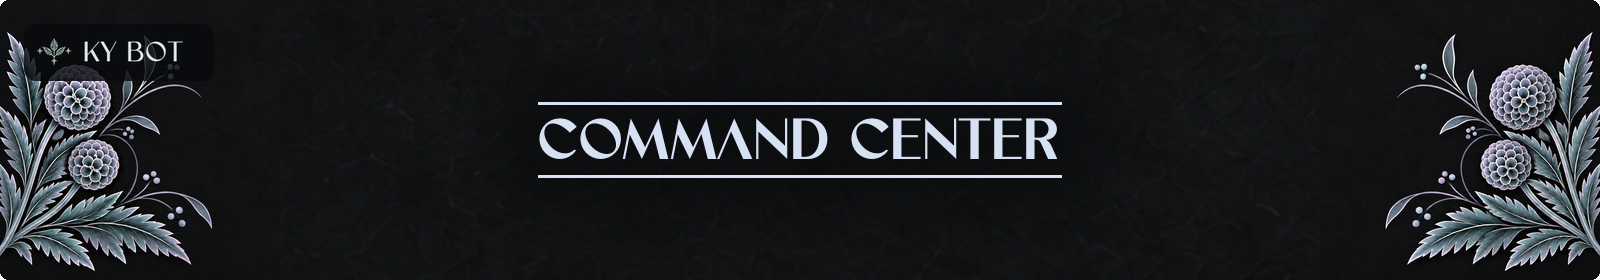
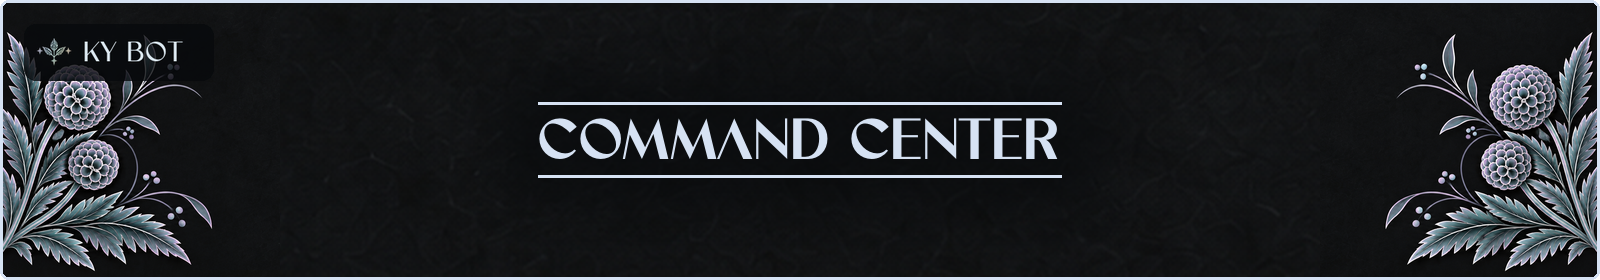
Updated headers and footers

Changed region(s): [[0.0, 0.9714, 1.0, 1.0], [0.0, 0.0, 1.0, 0.0286]]

diff --git a/tools/build_command_center_header.py b/tools/build_command_center_header.py
@@ -29,11 +29,11 @@ def build_header(*, framed: bool = False) -> Image.Image:
 
 
 def main() -> None:
-    header = build_header()
+    header = build_header(framed=True)
     save_artwork(header, ROOT / "src/ky_bot/assets/header/ky_header_command_center.png")
     footer = floral_background("silver_neon", (2176, 210))
-    footer.alpha_composite(centered_overlay("silver_neon", footer.size))
-    save_artwork(footer, ROOT / "src/ky_bot/assets/footer/ky_footer_silver_neon_compact.png")
+    footer.alpha_composite(centered_overlay("silver_neon", footer.size, framed=True))
+    save_artwork(footer, ROOT / "src/ky_bot/assets/footer/ky_footer_command_center.png")
     mask = text_mask("SERVER SETTINGS", role="display", size=44, min_size=44, max_width=1500)
     lettering = Image.new("RGBA", mask.size, "#D6E2F3")
     lettering.putalpha(mask)

diff --git a/src/ky_bot/cogs/settings.py b/src/ky_bot/cogs/settings.py
@@ -88,7 +88,7 @@ class ServerSettings(commands.Cog):
                 ),
                 discord.File(
                     files("ky_bot")
-                    .joinpath("assets", "footer", "ky_footer_silver_neon_compact.png")
+                    .joinpath("assets", "footer", "ky_footer_command_center.png")
                     .open("rb"),
                     filename="ky_settings_footer.png",
                 ),
